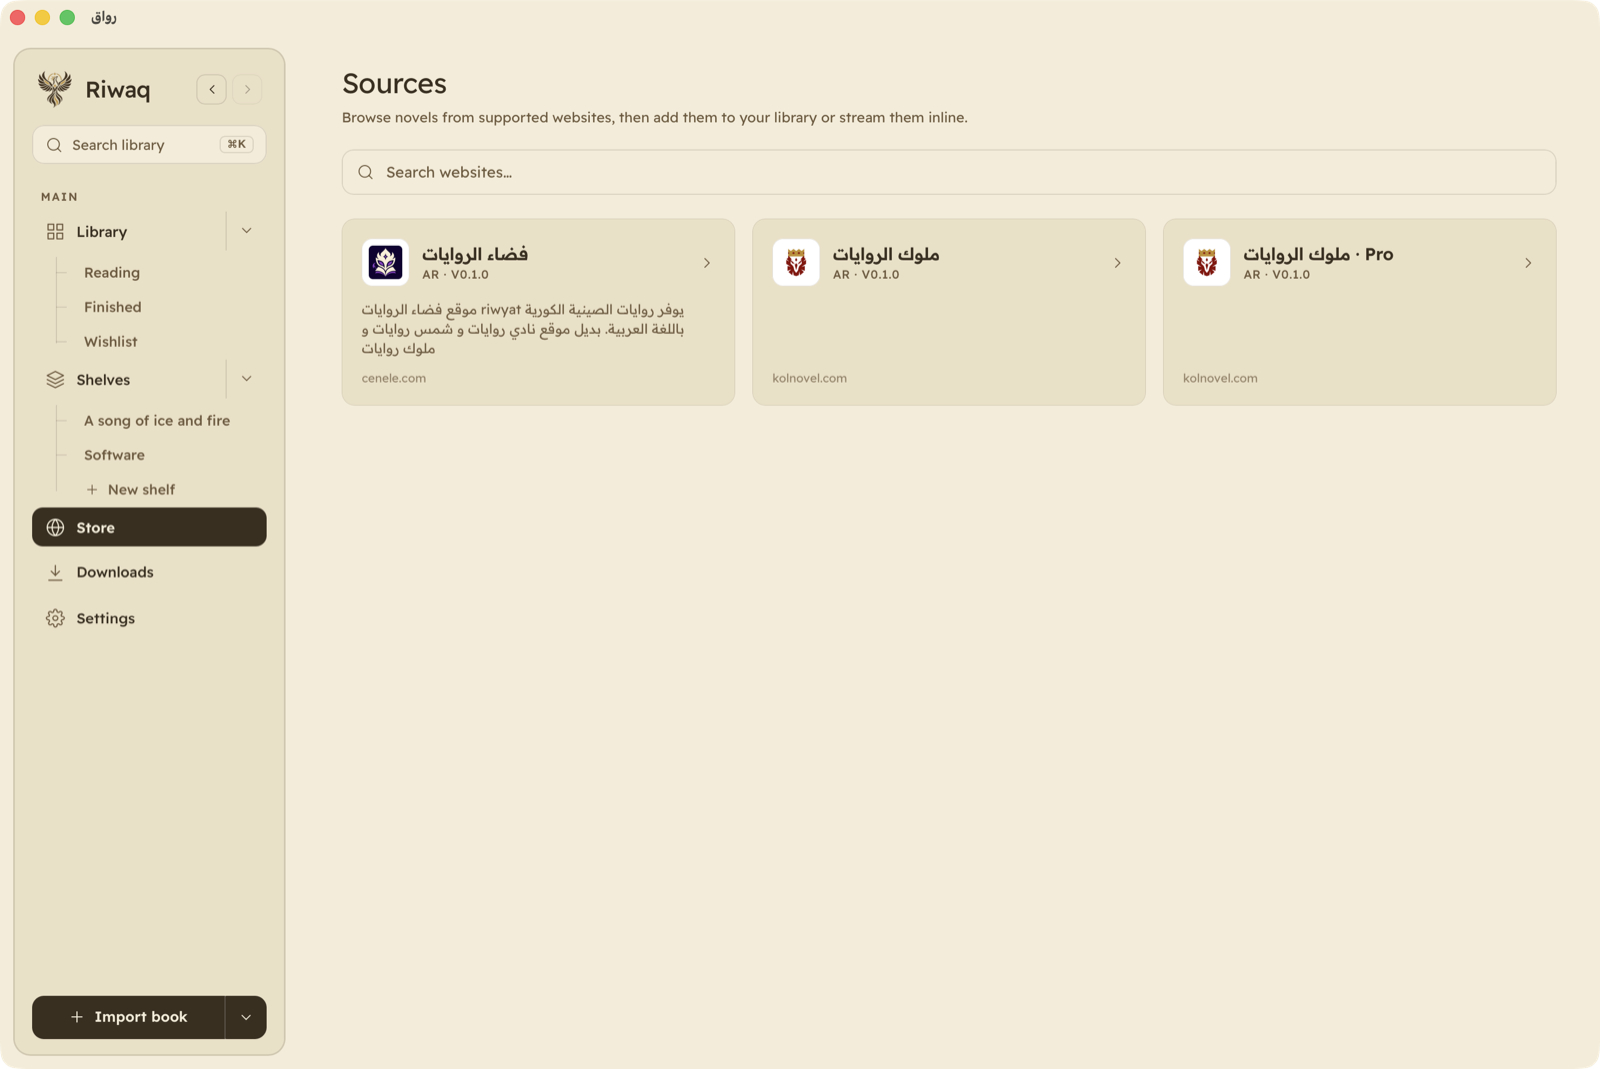
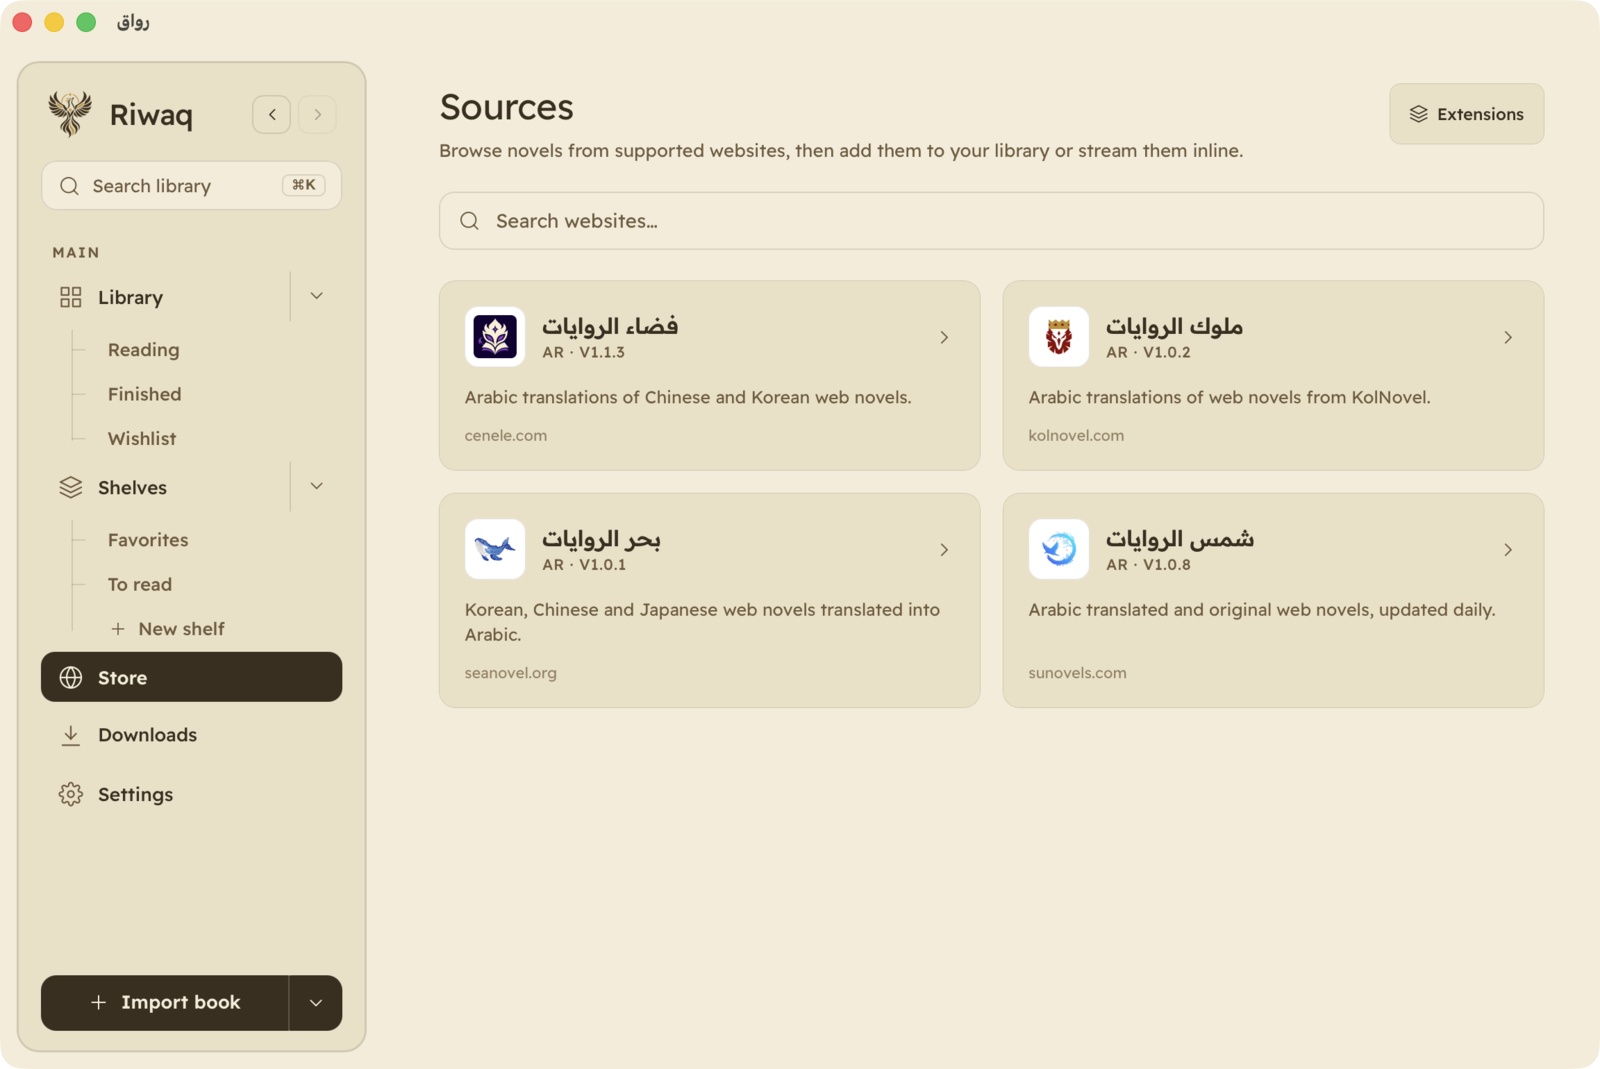
docs(readme): shoot the features that had no pictures
Three of the app's main features were described in prose and never shown,
and two screenshots had gone stale.

New:
  - the extensions manager, and the repositories behind it. The README
    gained the prose for this when sources became runtime extensions; it
    never gained the pictures.
  - saving a novel as a standalone EPUB, one file or one per volume.
  - focus mode on the phone, which is a different thing from the
    desktop's: no pointer to summon the chrome back, so it names itself
    on entry and leaves a lock in the corner. Three shots, because the
    mode is a sequence — enter, arrive, stay.

Re-shot:
  - the Sources view, which still showed three sources including a "Pro"
    variant the official repository no longer publishes. It is four now.
  - the novel detail page, which predates Download range and Save as
    offline book.
  - the phone reader, which now carries the focus control in its header.

All desktop shots are 1600x1069 and all phone shots 405x900, matching
what was already there, so the new ones sit beside the old without a
seam. Every one of the README's 37 image references resolves to a file
on disk, and no file in docs/screenshots is unreferenced.

diff --git a/README.md b/README.md
@@ -7,7 +7,7 @@
 EPUB · PDF · Word — on Windows, macOS, Linux and Android.
 No accounts, no sync, no analytics. Your books stay on your device.
 
-[Download](#download) · [Features](#what-makes-it-good) · [Screenshots](#screenshots) · [Development](#development)
+[Download](#download) · [Features](#what-makes-it-good) · [Sources](#sources) · [Screenshots](#screenshots) · [Development](#development)
 
 </div>
 
@@ -59,17 +59,35 @@ beside them. Install, update — one at a time or **Update all** — or remove, 
 Removing a *repository* leaves its extensions installed and working; they simply stop being
 offered updates.
 
+![The extensions manager — installed, available, and where they come from](docs/screenshots/desktop/25-extensions.png)
+
 An extension runs inside the app, with the app's reach, so adding a repository asks you to
 confirm you trust whoever publishes it. One built for a newer Riwaq than you are running
 says so up front instead of failing later, and a repository that can't be reached falls back
 to the copy saved on your device rather than emptying the list.
 
+![Repositories, with Riwaq's own and a field to add another](docs/screenshots/desktop/26-extension-repos.png)
+
 ### 🌙 Focus mode
 
-One click and everything but the page disappears. No toolbar, no progress bar, no chrome.
-Move the pointer to the top or bottom edge and the controls come back.
+One click and everything but the page disappears. No toolbar, no progress bar, no chrome —
+on the phone, not even the Android system bars.
 
 ![Focus mode](docs/screenshots/desktop/03-focus-mode.png)
+
+On desktop the controls come back when the pointer nears the top or bottom edge. The phone
+has no pointer, so it says what it is instead: entering names the mode and the way out, and
+a small lock stays in the corner afterwards so a reader who looks away and back can still
+tell. Leaving takes a deliberate **double-tap** — or a tap on that lock, which is a real
+button, because a mode whose only exit is a gesture is a mode someone can get stuck in.
+
+<table>
+<tr>
+<td width="33%"><img src="docs/screenshots/mobile/02-reader.png" alt="The phone reader, with focus mode in the header's corner"/><br/><b>Enter</b> — from the header</td>
+<td width="33%"><img src="docs/screenshots/mobile/09-focus-entry.png" alt="Entering focus mode names it and the exit gesture"/><br/><b>Arrive</b> — it says what it is</td>
+<td width="33%"><img src="docs/screenshots/mobile/10-focus-mode.png" alt="Focus mode at rest, with only a small lock in the corner"/><br/><b>Stay</b> — just the page, and a lock</td>
+</tr>
+</table>
 
 ### ✍ Typography you can actually tune
 
@@ -137,6 +155,12 @@ into a standalone EPUB — one file, or one per volume — that lands in your li
 everything else.
 
 ![Download queue](docs/screenshots/desktop/13-downloads.png)
+
+Baking a novel into an EPUB asks how you want it: one file, or one per volume — which for a
+fourteen-volume novel is the difference between a book you can finish and a book you can
+only scroll.
+
+![Saving a novel as a standalone EPUB](docs/screenshots/desktop/27-save-as-epub.png)
 
 ### 🗑 …and downloads you can take back
 
@@ -220,6 +244,12 @@ converted on import, with a step to pick the cover and review images first.
     <td align="center" width="25%"><img src="docs/screenshots/mobile/04-novel-detail.png" alt="Novel"/><br/><b>Novel</b></td>
     <td align="center" width="25%"><img src="docs/screenshots/mobile/06-pdf.png" alt="PDF"/><br/><b>PDF</b></td>
     <td align="center" width="25%"><img src="docs/screenshots/mobile/08-settings.png" alt="Settings"/><br/><b>Settings</b></td>
+  </tr>
+  <tr>
+    <td align="center" width="25%"><img src="docs/screenshots/mobile/09-focus-entry.png" alt="Entering focus mode"/><br/><b>Focus</b> — entering</td>
+    <td align="center" width="25%"><img src="docs/screenshots/mobile/10-focus-mode.png" alt="Focus mode at rest"/><br/><b>Focus</b> — at rest</td>
+    <td align="center" width="25%"></td>
+    <td align="center" width="25%"></td>
   </tr>
 </table>
 
